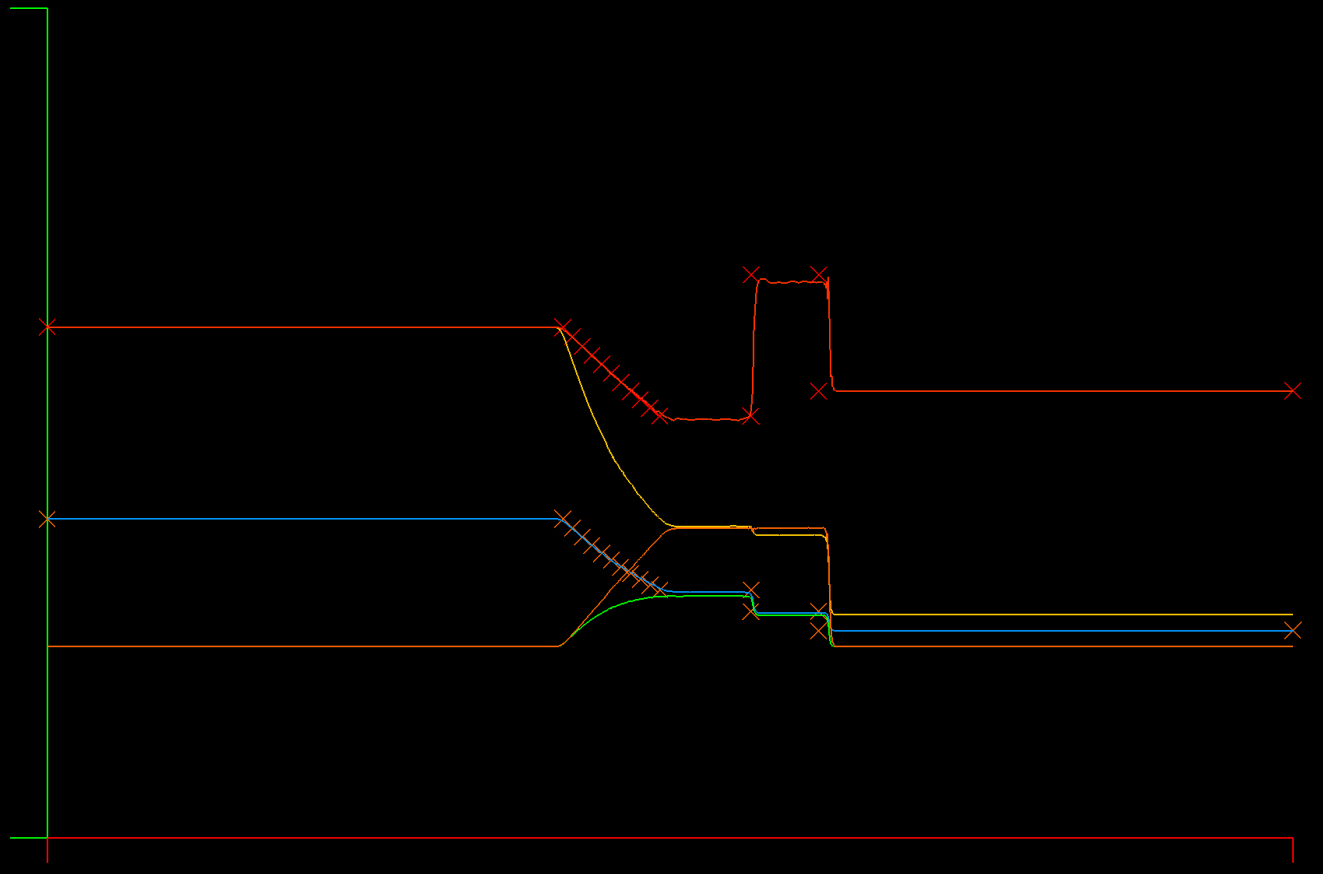
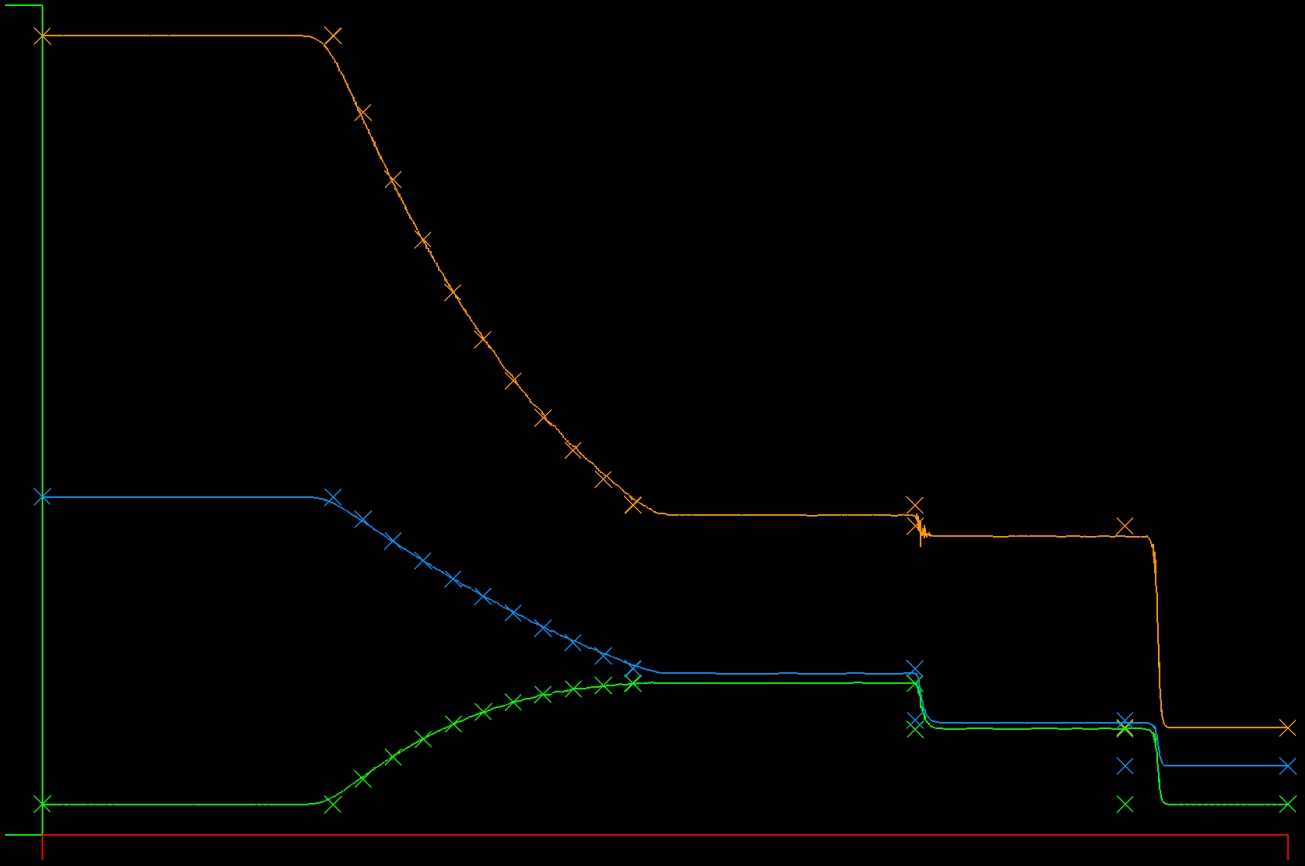
Clean up colors and plots for Euler1D/DFR

diff --git a/model_problems/eulerDFR.go b/model_problems/eulerDFR.go
@@ -117,8 +117,8 @@ func (c *EulerDFR) Run(showGraph bool, graphDelay ...time.Duration) {
 			Third Order Runge-Kutta time advancement
 		*/
 		// SSP RK Stage 1
-		rhsRho, rhsRhoU, rhsEner := c.RHS(&c.Rho, &c.RhoU, &c.Ener)
 		c.Plot(Time, showGraph, graphDelay)
+		rhsRho, rhsRhoU, rhsEner := c.RHS(&c.Rho, &c.RhoU, &c.Ener)
 		dt = c.CalculateDT(xmin, Time)
 		rho1 := c.Rho.Copy().Add(rhsRho.Scale(dt))
 		rhou1 := c.RhoU.Copy().Add(rhsRhoU.Scale(dt))
@@ -235,7 +235,7 @@ func (c *EulerDFR) BoundaryConditions(Rho, RhoU, Ener, RhoF, RhoUF, EnerF utils.
 func (c *EulerDFR) Plot(timeT float64, showGraph bool, graphDelay []time.Duration) {
 	var (
 		el         = c.El
-		fmin, fmax = float32(-1.5), float32(5)
+		fmin, fmax = float32(-0.1), float32(2.6)
 	)
 	if !showGraph {
 		return
@@ -253,9 +253,9 @@ func (c *EulerDFR) Plot(timeT float64, showGraph bool, graphDelay []time.Duratio
 	}
 	pSeries(c.Rho, "Rho", -0.7, chart2d.NoGlyph)
 	pSeries(c.RhoU, "RhoU", 0.0, chart2d.NoGlyph)
-	pSeries(c.Ener, "Ener", 0.6, chart2d.NoGlyph)
-	pSeries(c.State.U, "U", 0.8, chart2d.NoGlyph)
-	pSeries(c.State.Temp, "Temp", 0.9, chart2d.NoGlyph)
+	pSeries(c.Ener, "Ener", 0.7, chart2d.NoGlyph)
+	//pSeries(c.State.U, "U", 0.8, chart2d.NoGlyph)
+	//pSeries(c.State.Temp, "Temp", 0.9, chart2d.NoGlyph)
 	//pSeries(c.State.Ht, "Ht", -0.9, chart2d.CrossGlyph)
 	c.frameCount++
 	check := int(math.Log10(float64(el.K * el.Np / 5)))
@@ -268,12 +268,14 @@ func (c *EulerDFR) Plot(timeT float64, showGraph bool, graphDelay []time.Duratio
 }
 
 func AddAnalyticSod(chart *chart2d.Chart2D, colorMap *utils2.ColorMap, timeT float64) {
-	X, Rho, P, U, E := sod_shock_tube.SOD_calc(timeT)
-	_, _ = P, U
-	if err := chart.AddSeries("ExactRho", X, Rho, chart2d.XGlyph, chart2d.NoLine, colorMap.GetRGB(0.8)); err != nil {
+	X, Rho, _, RhoU, E := sod_shock_tube.SOD_calc(timeT)
+	if err := chart.AddSeries("ExactRho", X, Rho, chart2d.XGlyph, chart2d.NoLine, colorMap.GetRGB(-0.7)); err != nil {
 		panic("unable to add exact solution Rho")
 	}
-	if err := chart.AddSeries("ExactE", X, E, chart2d.XGlyph, chart2d.NoLine, colorMap.GetRGB(1.0)); err != nil {
+	if err := chart.AddSeries("ExactRhoU", X, RhoU, chart2d.XGlyph, chart2d.NoLine, colorMap.GetRGB(0.0)); err != nil {
+		panic("unable to add exact solution RhoU")
+	}
+	if err := chart.AddSeries("ExactE", X, E, chart2d.XGlyph, chart2d.NoLine, colorMap.GetRGB(0.7)); err != nil {
 		panic("unable to add exact solution E")
 	}
 }

diff --git a/sod_shock_tube/analytic_sod.go b/sod_shock_tube/analytic_sod.go
@@ -6,7 +6,7 @@ import (
 	"github.com/notargets/gocfd/utils"
 )
 
-func SOD_calc(t float64) (X, Rho, P, U, E []float64) {
+func SOD_calc(t float64) (X, Rho, P, RhoU, E []float64) {
 	var (
 		x_min, x_max        = 0., 1.
 		x0, rho_l, P_l, u_l = 0.5 * (x_max + x_min), 1., 1., 0.
@@ -30,7 +30,7 @@ func SOD_calc(t float64) (X, Rho, P, U, E []float64) {
 	)
 	//fmt.Printf("Sod P_post = %v, sod_func(P_post) = %v\n", P_post, sod_func(P_post))
 	_ = c_r
-	tol := 0.00000001
+	tol := 0.0001
 	midStep := (x2 - x1) / 10.
 	X = []float64{
 		x_min,
@@ -43,7 +43,8 @@ func SOD_calc(t float64) (X, Rho, P, U, E []float64) {
 	}
 	Rho = make([]float64, len(X))
 	P = make([]float64, len(X))
-	U = make([]float64, len(X))
+	U := make([]float64, len(X))
+	RhoU = make([]float64, len(X))
 	E = make([]float64, len(X))
 	for i, x := range X {
 		switch {
@@ -69,7 +70,8 @@ func SOD_calc(t float64) (X, Rho, P, U, E []float64) {
 			P[i] = P_r
 			U[i] = u_r
 		}
-		E[i] = P[i] / ((gamma - 1.) * Rho[i])
+		E[i] = P[i]/(gamma-1.) + 0.5*U[i]*U[i]*Rho[i]
+		RhoU[i] = Rho[i] * U[i]
 	}
 	return
 }

diff --git a/model_problems/euler1d.go b/model_problems/euler1d.go
@@ -325,13 +325,14 @@ func (s *State) Print() (o string) {
 
 func (c *Euler1D) Plot(timeT float64, showGraph bool, graphDelay []time.Duration) {
 	var (
-		el = c.El
+		el         = c.El
+		fmin, fmax = float32(-0.1), float32(2.6)
 	)
 	if !showGraph {
 		return
 	}
 	c.plotOnce.Do(func() {
-		c.chart = chart2d.NewChart2D(1920, 1280, float32(el.X.Min()), float32(el.X.Max()), -1.5, 5)
+		c.chart = chart2d.NewChart2D(1920, 1280, float32(el.X.Min()), float32(el.X.Max()), fmin, fmax)
 		c.colorMap = utils2.NewColorMap(-1, 1, 1)
 		go c.chart.Plot()
 	})
@@ -343,9 +344,9 @@ func (c *Euler1D) Plot(timeT float64, showGraph bool, graphDelay []time.Duration
 	}
 	pSeries(c.Rho, "Rho", -0.7)
 	pSeries(c.RhoU, "RhoU", 0.0)
-	pSeries(c.Ener, "Ener", 0.6)
-	pSeries(c.State.U, "U", 0.8)
-	pSeries(c.State.Temp, "Temp", 0.9)
+	pSeries(c.Ener, "Ener", 0.7)
+	//pSeries(c.State.U, "U", 0.8)
+	//pSeries(c.State.Temp, "Temp", 0.9)
 	c.frameCount++
 	check := int(math.Log10(float64(el.K * el.Np / 5)))
 	if c.frameCount%check == 0 {
